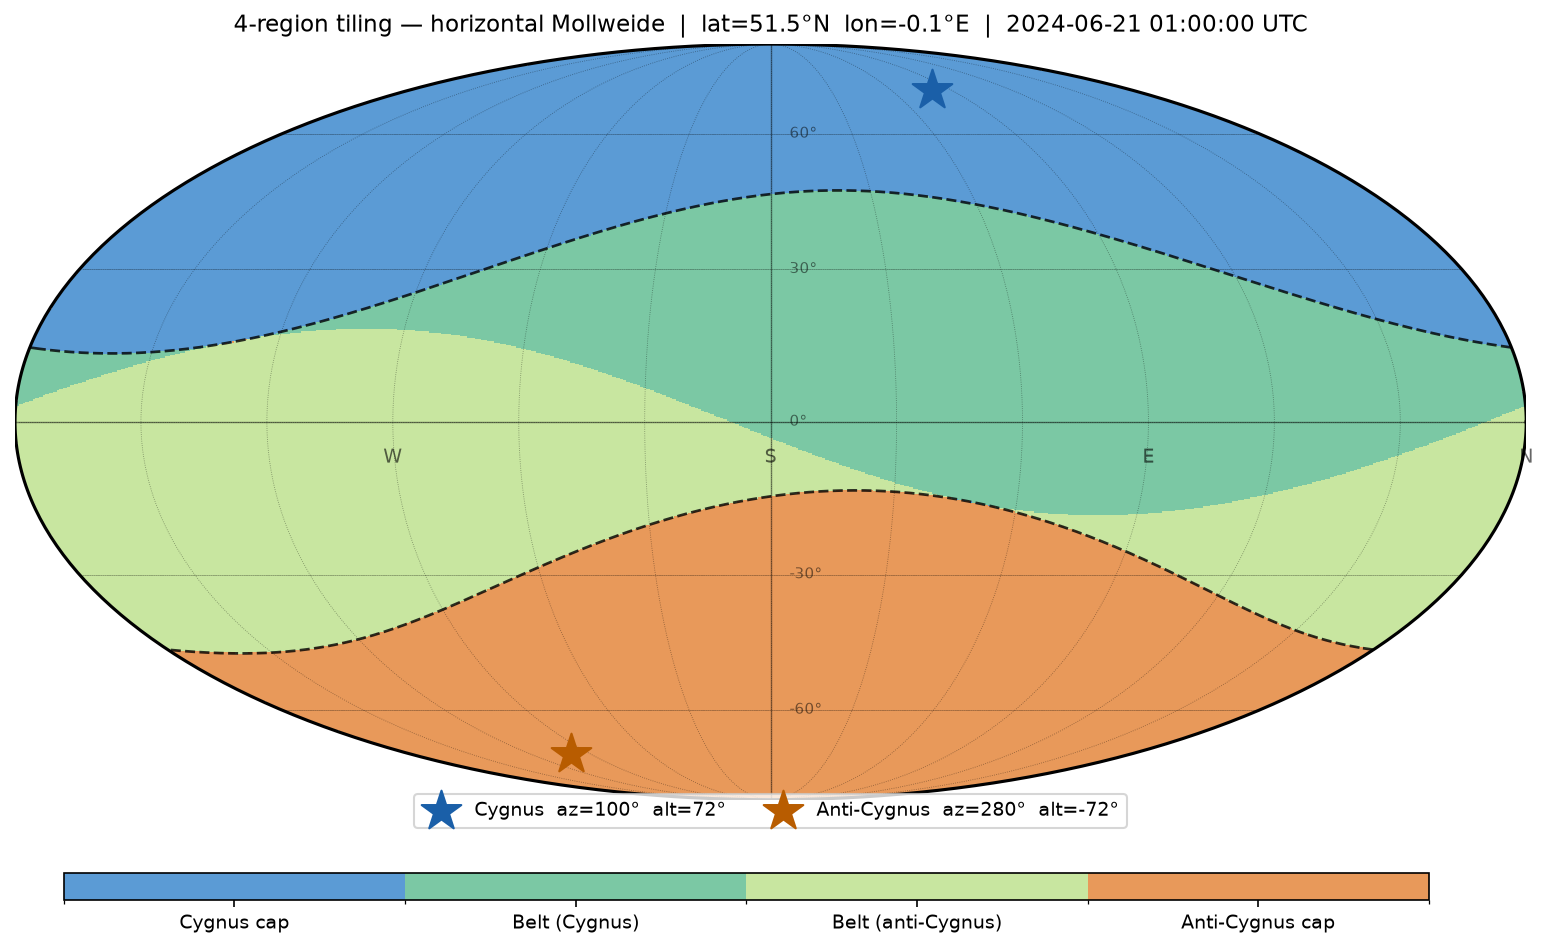
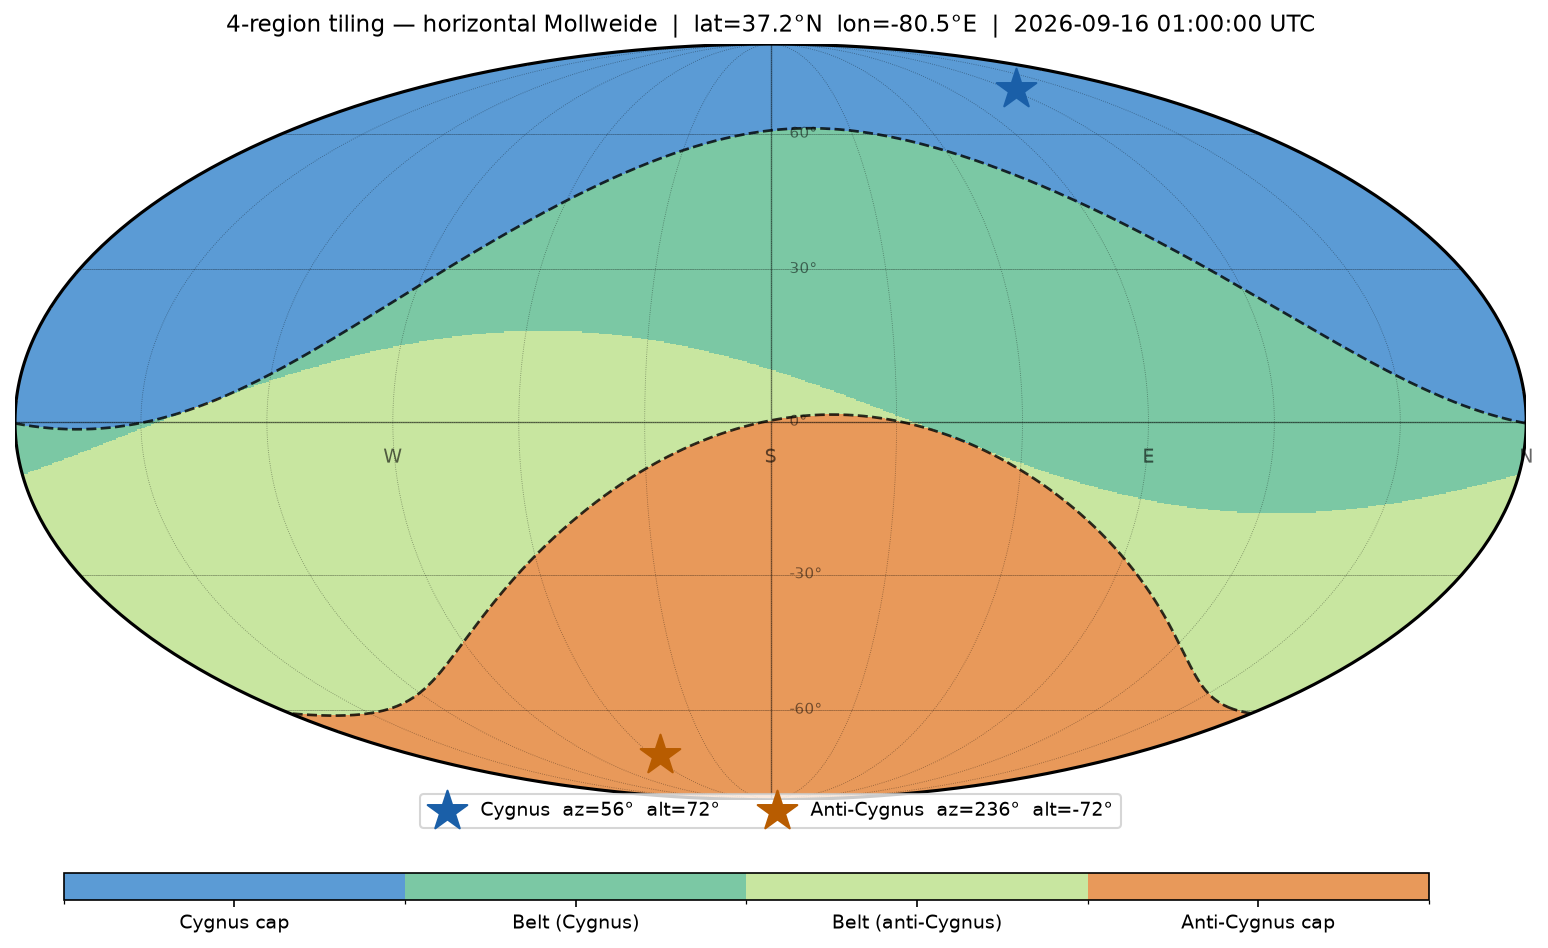
Updated Tiling for Crude DM Analysis

diff --git a/HEALPix.py b/HEALPix.py
@@ -17,10 +17,10 @@ import os
 # ── Configuration ─────────────────────────────────────────────────────────────
 
 NSIDE    = 64
-OBS_LAT  =  51.5
-OBS_LON  =  -0.1
+OBS_LAT  =  37.2
+OBS_LON  =  -80.5
 OBS_ELEV =  10.0
-OBS_TIME = "2024-06-21 01:00:00"
+OBS_TIME = "2026-09-16 01:00:00"
 
 POLE_RA  = 310.358
 POLE_DEC =  45.280
